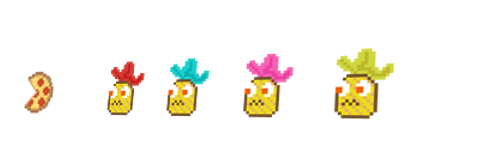
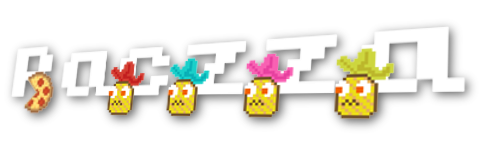
Add image to README

diff --git a/README.md b/README.md
@@ -1,12 +1,14 @@
 # Pac-Zza
 
+![Paczz logo](game/res/titre.png "Paczza logo")
+
 Mort aux ananas !
 
 # Ressources utilisées
-- Police de caractères Kongtext par codeman38
-- Police de caractères DoCoMo par Monica Dinculescu
+- Police de caractères **Kongtext** par codeman38
+- Police de caractères **DoCoMo** par Monica Dinculescu
 
-# Execution
+# Exécution
 L'exécutable doit être exécuté dans le dossier où se trouve le dossier `res`  
 
 # Compilation sur Linux
@@ -27,6 +29,6 @@ make
 - Cliquer sur Generate
 
 ## Utilisation de Visual Studio
-- Clic droit sur le projet _paczza_ > propriétés
-- Aller dans C/C++, Ligne de commande
+- Clic droit sur le projet _paczza_ > Propriétés
+- Aller dans C/C++ > Ligne de commande
 - Ajouter `/utf-8`
